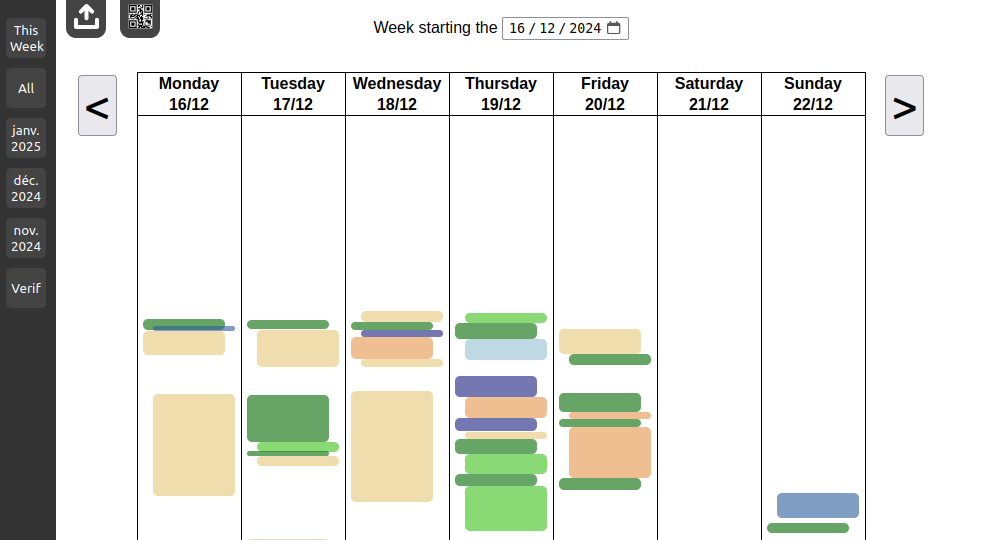
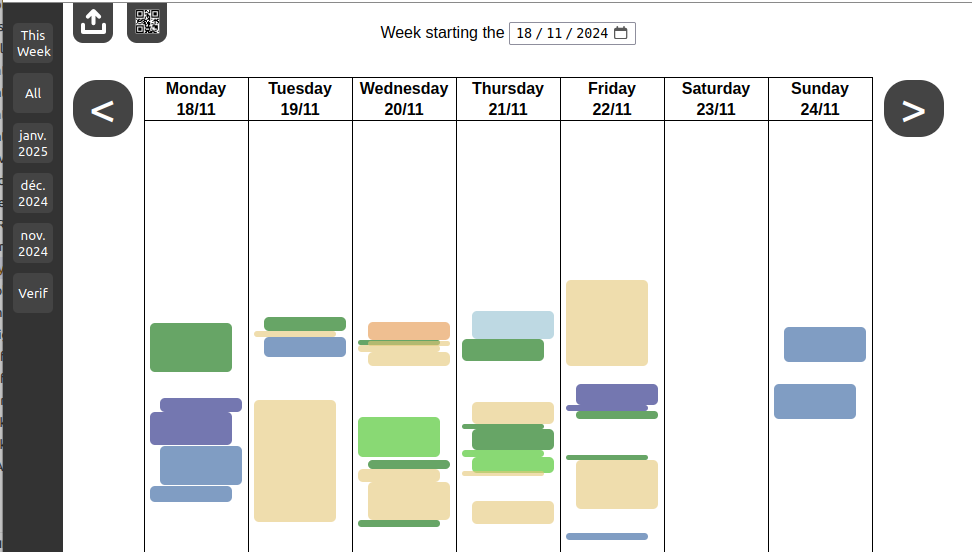
Better style for the next/previous week button

diff --git a/public/style.css b/public/style.css
@@ -184,13 +184,24 @@ body {
 #prevWeek, 
 #nextWeek {
 	position: absolute;
-	font-size: 300%
+	font-size: 300%;
+    background-color: #444;
+    border-radius: 0.5em;
+    border: none;
+    width: 1.25em;
+    color: white;
+    cursor: pointer;
+}
+
+#prevWeek:hover, 
+#nextWeek:hover {
+    background-color: #555;
 }
 
 #prevWeek {
-	right: 120%;
+	right: calc(100% + 0.25em);
 }
 
 #nextWeek {
-	left: 120%;
+	left: calc(100% + 0.25em);
 }
